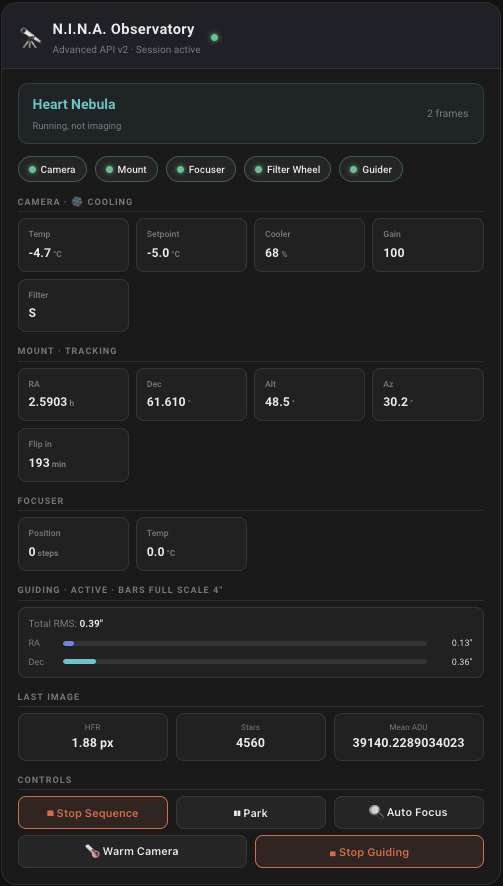
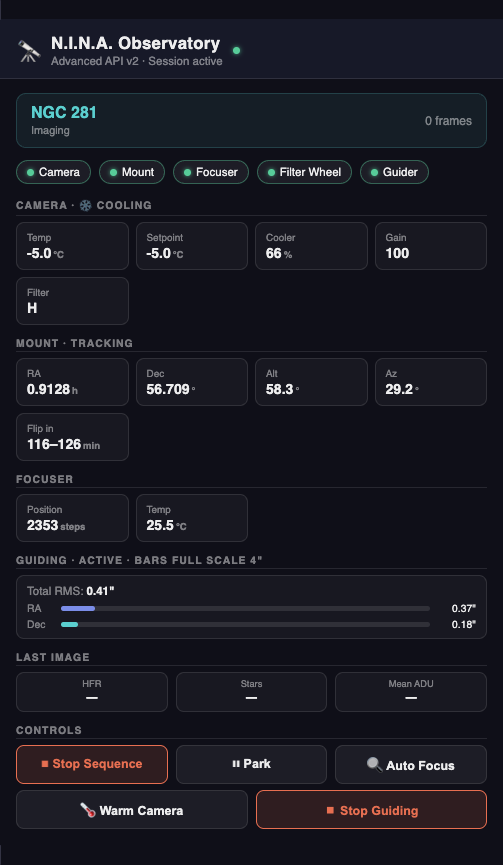
docs: card samples show the flip as a range (#170)

diff --git a/README.md b/README.md
@@ -139,11 +139,7 @@ type: custom:nina-observatory-card
 | **Weather** | **Autofocus** | **Frame statistics** |
 | <img src="https://raw.githubusercontent.com/dgivens/homeassistant-nina-astrophotography/main/docs/images/cards/weather.png" alt="Weather card" width="260"> | <img src="https://raw.githubusercontent.com/dgivens/homeassistant-nina-astrophotography/main/docs/images/cards/autofocus.png" alt="Autofocus card" width="260"> | <img src="https://raw.githubusercontent.com/dgivens/homeassistant-nina-astrophotography/main/docs/images/cards/frame-stats.png" alt="Frame statistics card" width="260"> |
 
-The autofocus and frame statistics samples are rendered from a recorded night
-by `tools/card-harness/`; the rest are from a live rig.
-
-With a dome, the observatory card adds a Dome chip and Open or Close Dome —
-here rendered from the test VM's simulated rig, with the shutter open:
+With a dome, the observatory card adds a Dome chip and Open or Close Dome:
 
 <img src="https://raw.githubusercontent.com/dgivens/homeassistant-nina-astrophotography/main/docs/images/cards/observatory-dome.png" alt="Observatory card with a dome: a Dome chip, and Close Dome among the controls" width="260">
 
